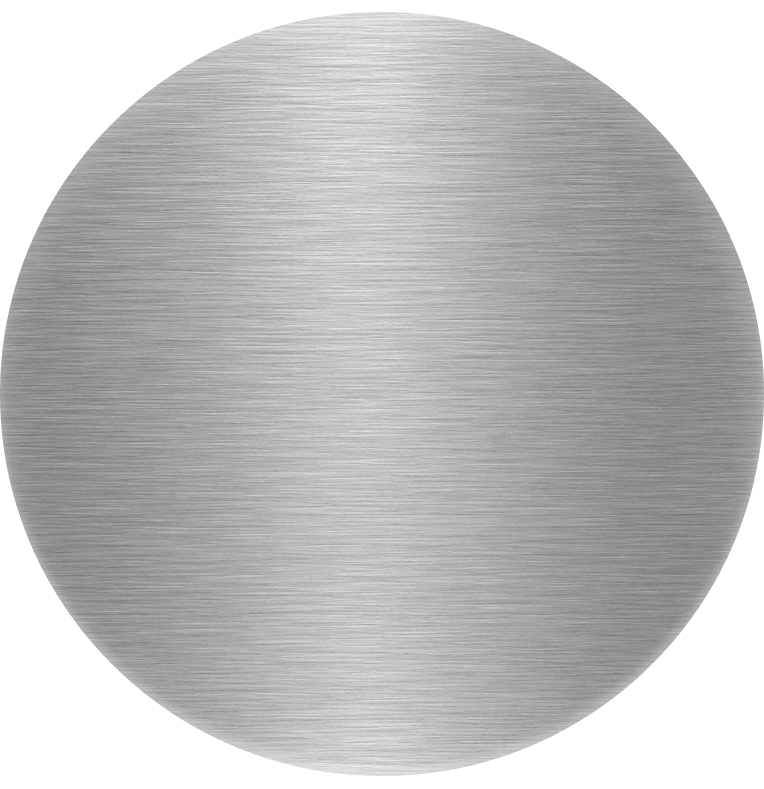
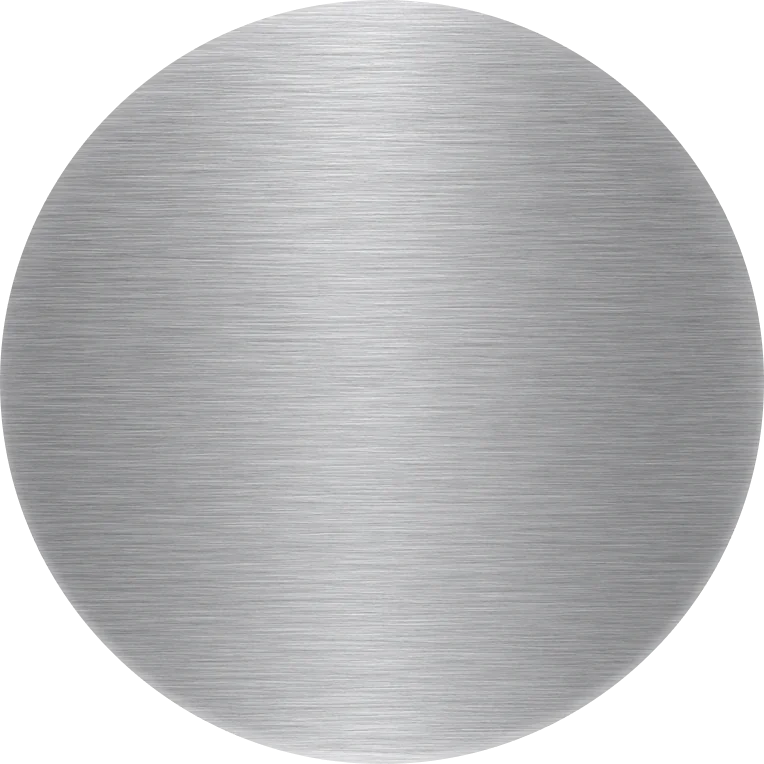
fixed wheel and removed nav bar

diff --git a/src/app/_layout.tsx b/src/app/_layout.tsx
@@ -1,5 +1,6 @@
 import { PoetsenOne_400Regular } from '@expo-google-fonts/poetsen-one';
 import { useFonts } from 'expo-font';
+import { NavigationBar } from 'expo-navigation-bar';
 import { Stack } from 'expo-router';
 import * as SplashScreen from 'expo-splash-screen';
 import { StatusBar } from 'expo-status-bar';
@@ -34,6 +35,7 @@ export default function RootLayout() {
     initAnalytics();
     initAds();
     void initAudio();
+    NavigationBar.setHidden(true);
   }, []);
 
   useEffect(() => {
